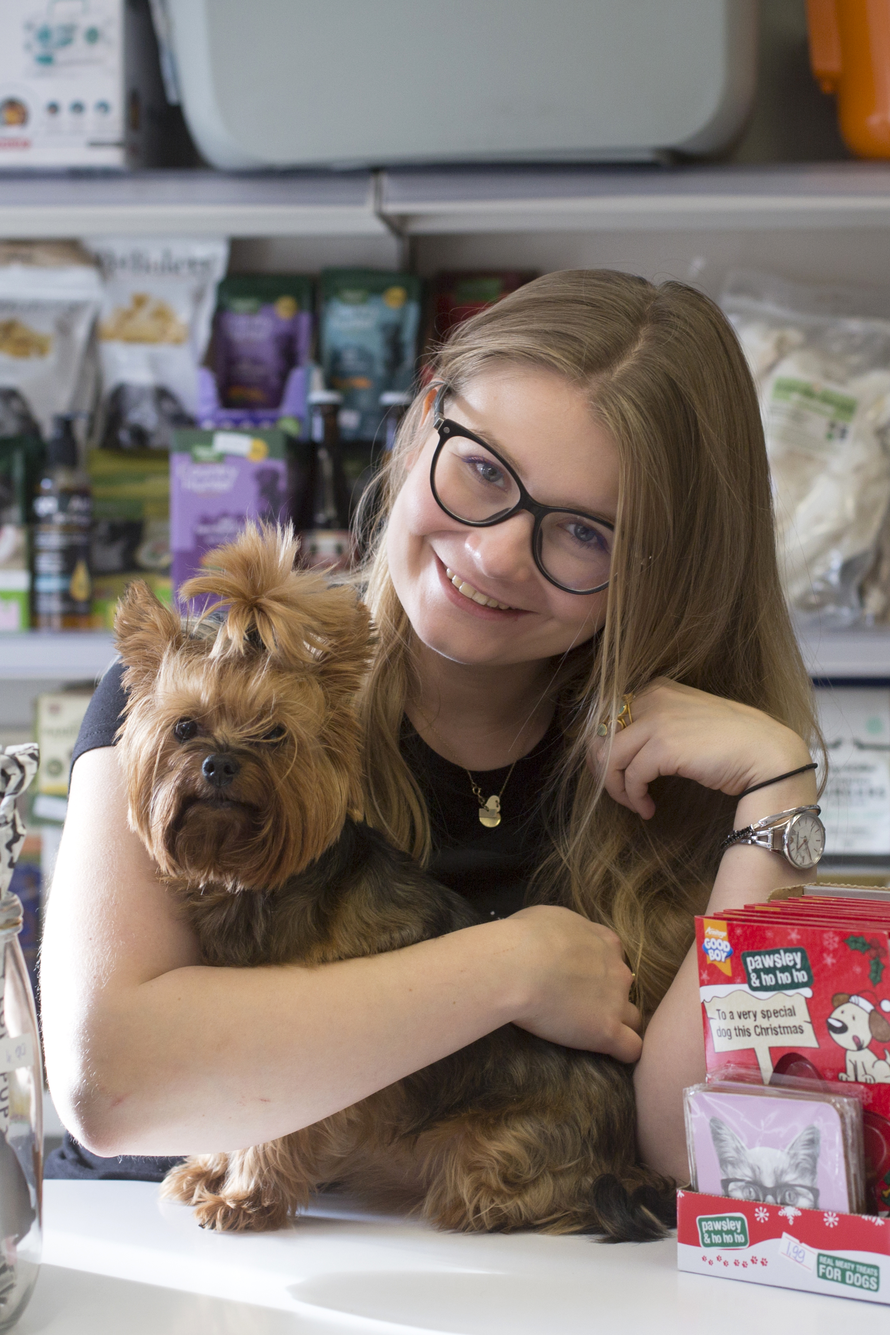
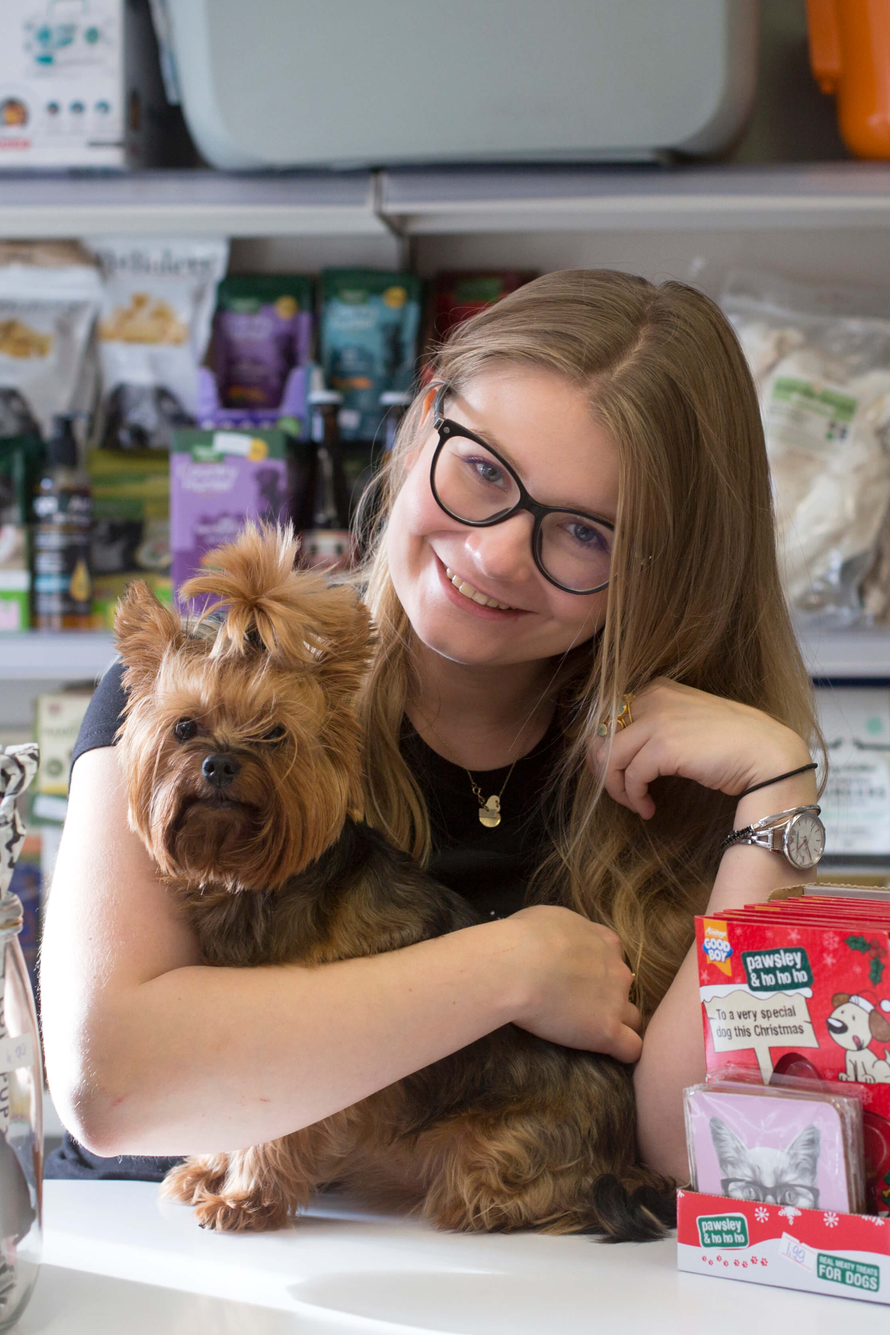
optimize images for about page

Changed region(s): [[0.7739, 0.6533, 1.0, 0.84], [0.7429, 0.8711, 1.0, 0.9644], [0.9596, 0.0, 1.0, 0.0933]]

diff --git a/about.html b/about.html
@@ -96,21 +96,21 @@
 
         <div class="container-fluid ar-content">
             <div class="container">
-                <div class="row">
+                <div class="row">   
                     <div class="col-lg-12">
                         <div class="media my-5">
                         </div>
                         
                         <h2 class="text-center fs-35 mt-5 pt-5 mb-0 pb-2">About Us</h2>
                         <hr class="mt-0 pt-0" />
-                        <p class="second-clr my-5">Lorem Ipsum is simply dummy text of the printing and typesetting industry. Lorem Ipsum has been the industry's standard dummy text ever since the 1500s, when an unknown printer took a galley of type and scrambled it to make a type specimen book. It has survived not only five centuries, but also the leap into electronic typesetting, remaining essentially unchanged. It was popularised in the 1960s with the release of Letraset sheets containing Lorem Ipsum passages, and more recently with desktop publishing software like Aldus PageMaker including versions of Lorem Ipsum.</p>
-                    </div>
-                </div>
-                 <div class="row">
-                    <div class="col-md-8 mx-auto">
-                        <div class="team-card mb-5 text-center">
-                            <img class="img-fluid" src="assets/images/team/team-all.jpg" alt="">
+                          <div class="row">
+                        <div class="col-md-8 mx-auto">
+                            <div class="team-card mb-5 text-center">
+                                <img class="img-fluid" src="assets/images/team/team-all.jpg" alt="">
+                            </div>
                         </div>
+                    </div>
+                        <p class="second-clr my-5">Lorem Ipsum is simply dummy text of the printing and typesetting industry. Lorem Ipsum has been the industry's standard dummy text ever since the 1500s, when an unknown printer took a galley of type and scrambled it to make a type specimen book. It has survived not only five centuries, but also the leap into electronic typesetting, remaining essentially unchanged. It was popularised in the 1960s with the release of Letraset sheets containing Lorem Ipsum passages, and more recently with desktop publishing software like Aldus PageMaker including versions of Lorem Ipsum.</p>
                     </div>
                 </div>
             </div>
@@ -243,90 +243,58 @@
                 </div>
             </div>
         </div>
+        <div class="row">
+            <div class="col-md-8 mx-auto">
+                <div class="team-card mb-5 mt-5 text-center">
+                    <div class="spin img-container">
+                    <img id="spin-img" width="50" class="img-fluid" src="assets/images/footprint.png" alt="">
+                </div>
+            </div>
+        </div>
         <div class="container">
             <div class="section-content">
                 <div class="heading-section text-center">
                     <h2>
                         Work in progress ...
                     </h2>
-                </div> 
-                 <div class="row">
-                    <div class="col-md-2">
-                        <div class="team-card mb-5">
-                            <img class="img-fluid" src="assets/images/work/work1.jpg" alt="">
-                        </div>
-                    </div>
-                    <div class="col-md-2">
-                        <div class="team-card mb-5">
-                            <img class="img-fluid" src="assets/images/work/work2.jpg" alt="">
-                        </div>
-                    </div>
-                    <div class="col-md-2">
-                        <div class="team-card mb-5">
-                            <img class="img-fluid" src="assets/images/work/work3.jpg" alt="">
-                        </div>
-                    </div>
-                     <div class="col-md-2">
-                        <div class="team-card mb-5">
-                            <img class="img-fluid" src="assets/images/work/work4.jpg" alt="">
-                        </div>
-                    </div>
-                    <div class="col-md-2">
-                        <div class="team-card mb-5">
-                            <img class="img-fluid" src="assets/images/work/work5.jpg" alt="">
-                        </div>
-                    </div>
-                    <div class="col-md-2">
-                        <div class="team-card mb-5">
-                            <img class="img-fluid" src="assets/images/work/work6.jpg" alt="">
-                        </div>
-                    </div>
                 </div>
             </div>
-        </div>
-        <div class="container">
-            <div class="section-content">
-                <div class="heading-section text-center">
-                    <h2>
-                        ... to see the smile of our Happy Clients
-                    </h2>
-                </div> 
                  <div class="row">
-                    <div class="col-md-2">
+                    <div class="col-md-4">
                         <div class="team-card mb-5">
-                            <img class="img-fluid" src="assets/images/clients/client2.jpg" alt="">
+                            <img class="img-fluid img-work w-100" src="assets/images/work/work1.jpg" alt="">
                         </div>
                     </div>
-                    <div class="col-md-2">
+                    <div class="col-md-4">
                         <div class="team-card mb-5">
-                            <img class="img-fluid" src="assets/images/clients/client1.jpg" alt="">
+                            <img class="img-fluid img-work w-100" src="assets/images/work/work2.jpg" alt="">
                         </div>
                     </div>
-                    <div class="col-md-2">
+                    <div class="col-md-4">
                         <div class="team-card mb-5">
-                            <img class="img-fluid" src="assets/images/clients/client3.jpg" alt="">
+                            <img class="img-fluid img-work w-100" src="assets/images/work/work3.jpg" alt="">
                         </div>
                     </div>
-                     <div class="col-md-2">
+                     <div class="col-md-4">
                         <div class="team-card mb-5">
-                            <img class="img-fluid" src="assets/images/clients/client4.jpg" alt="">
+                            <img class="img-fluid img-work w-100" src="assets/images/work/work4.jpg" alt="">
                         </div>
                     </div>
-                    <div class="col-md-2">
+                    <div class="col-md-4">
                         <div class="team-card mb-5">
-                            <img class="img-fluid" src="assets/images/clients/client6.jpg" alt="">
+                            <img class="img-fluid img-work w-100" src="assets/images/work/work5.jpg" alt="">
                         </div>
                     </div>
-                    <div class="col-md-2">
+                    <div class="col-md-4">
                         <div class="team-card mb-5">
-                            <img class="img-fluid" src="assets/images/clients/client5.jpg" alt="">
+                            <img class="img-fluid img-work w-100" src="assets/images/work/work6.jpg" alt="">
                         </div>
                     </div>
                 </div>
             </div>
         </div>
     </section>
-        </div>
+</div>
 
        <div id="footer"></div>
         <script>$(function(){

diff --git a/assets/css/style.css b/assets/css/style.css
@@ -935,12 +935,12 @@ header .col-md-3 h5 {
     background-color: #ffffff;
 }
 
-header .card a:hover, .ar-content a:hover, .crt-load-more:hover {
+header .card a:hover, .ar-content a:hover, .crt-load-more:hover, .item-cat:hover h6  {
     text-shadow: none!important;
 }
 
 
-header .card a, .ar-content a.btn, .crt-load-more  {
+header .card a, .ar-content a.btn, .crt-load-more, .item-cat h6 {
     text-shadow: 0px 0px 1px #000, 0px 0px 0px #000, 0px 0px 0px #000, 0px 0px 1px #000, 0px 0px 1px #000, 0px 0px 0px #000;
 }
 
@@ -952,9 +952,6 @@ header .card a, .ar-content a.btn, .crt-load-more  {
 /*============================
 =        PRODUCTS            =
 ============================*/
-.item-cat h6 {
-    text-shadow: 2px 2px 2px #444444;
-}
 
 a.btn-store:hover .item-cat h6 {
     text-shadow: none!important;
